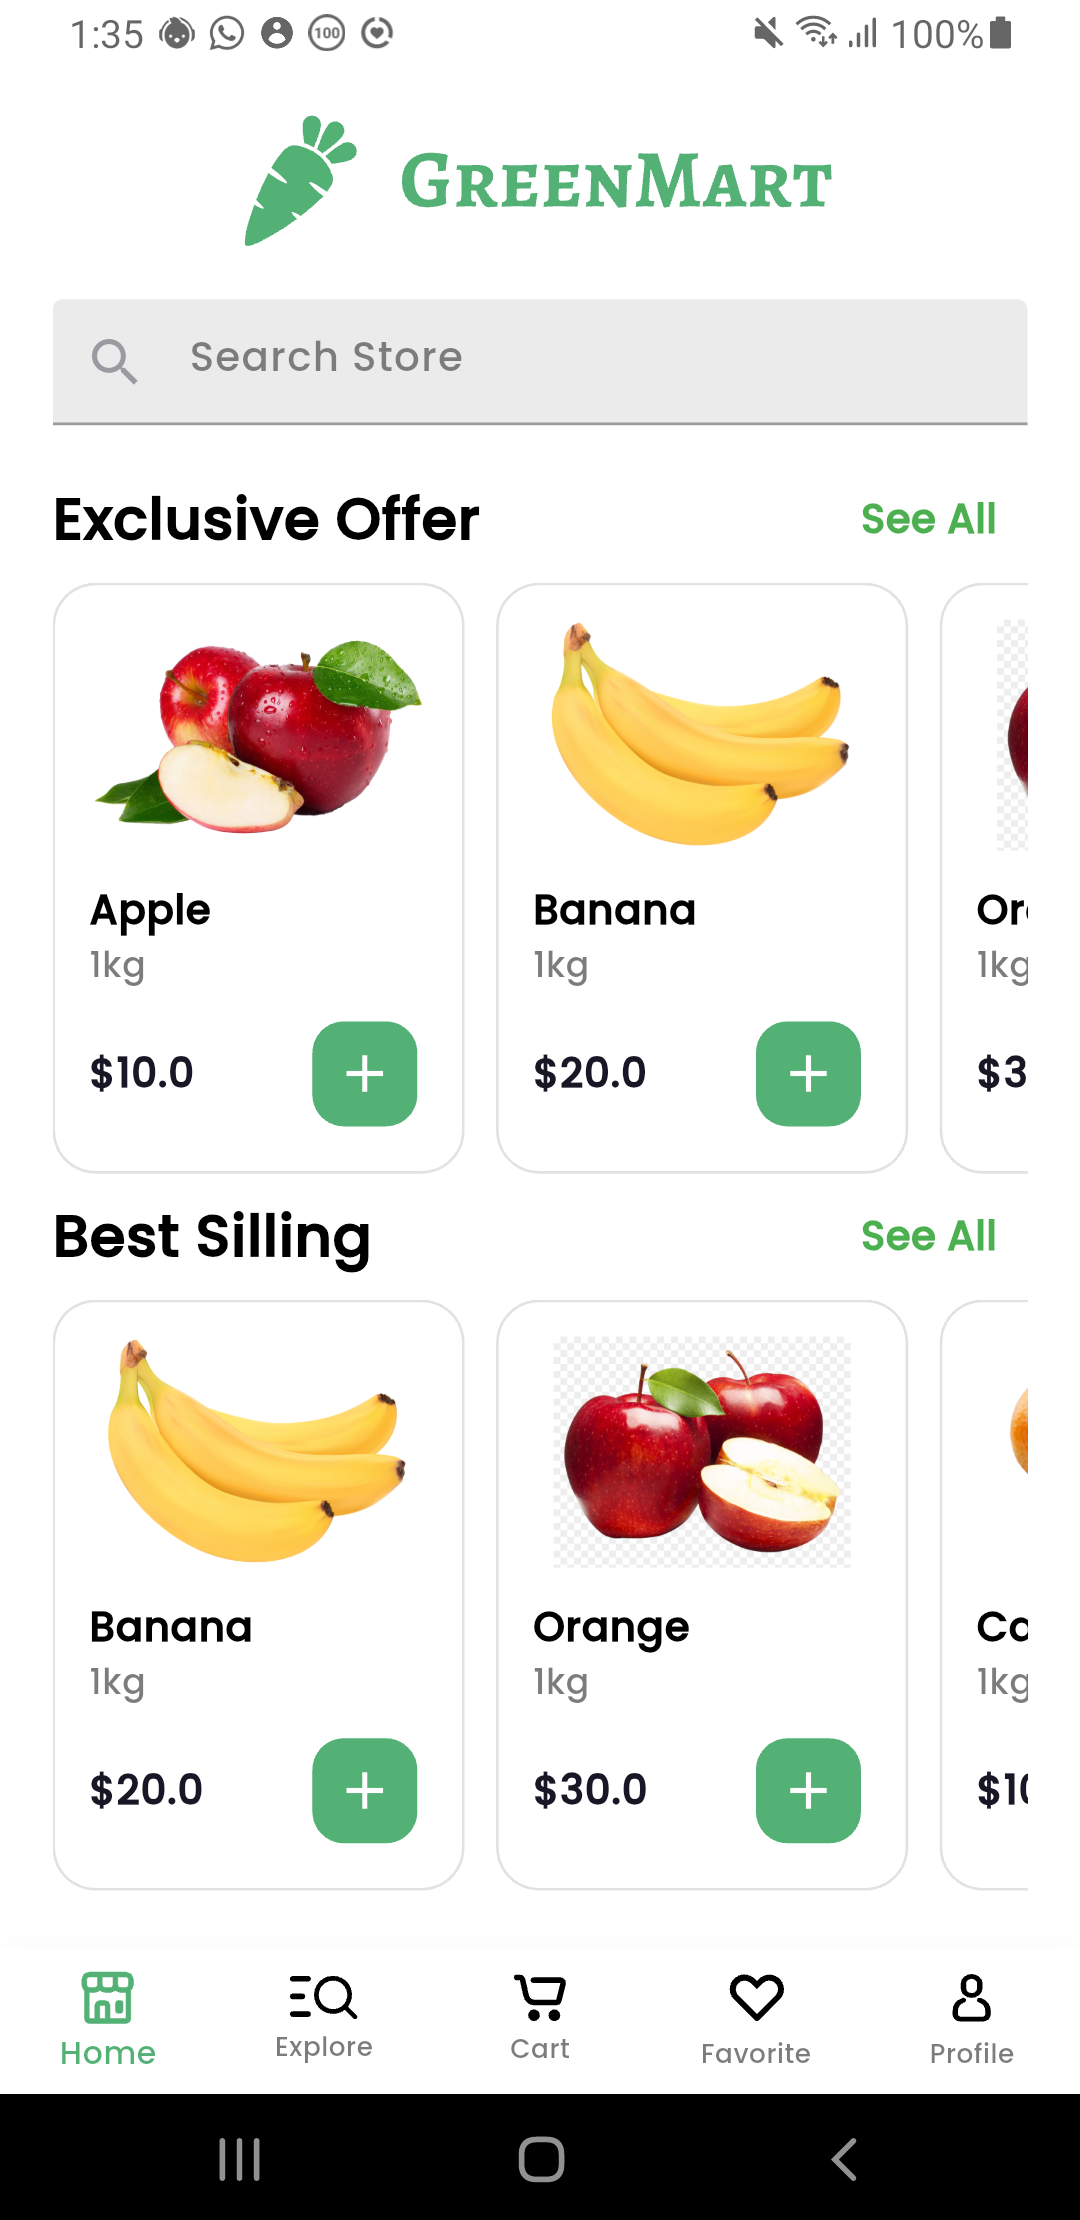
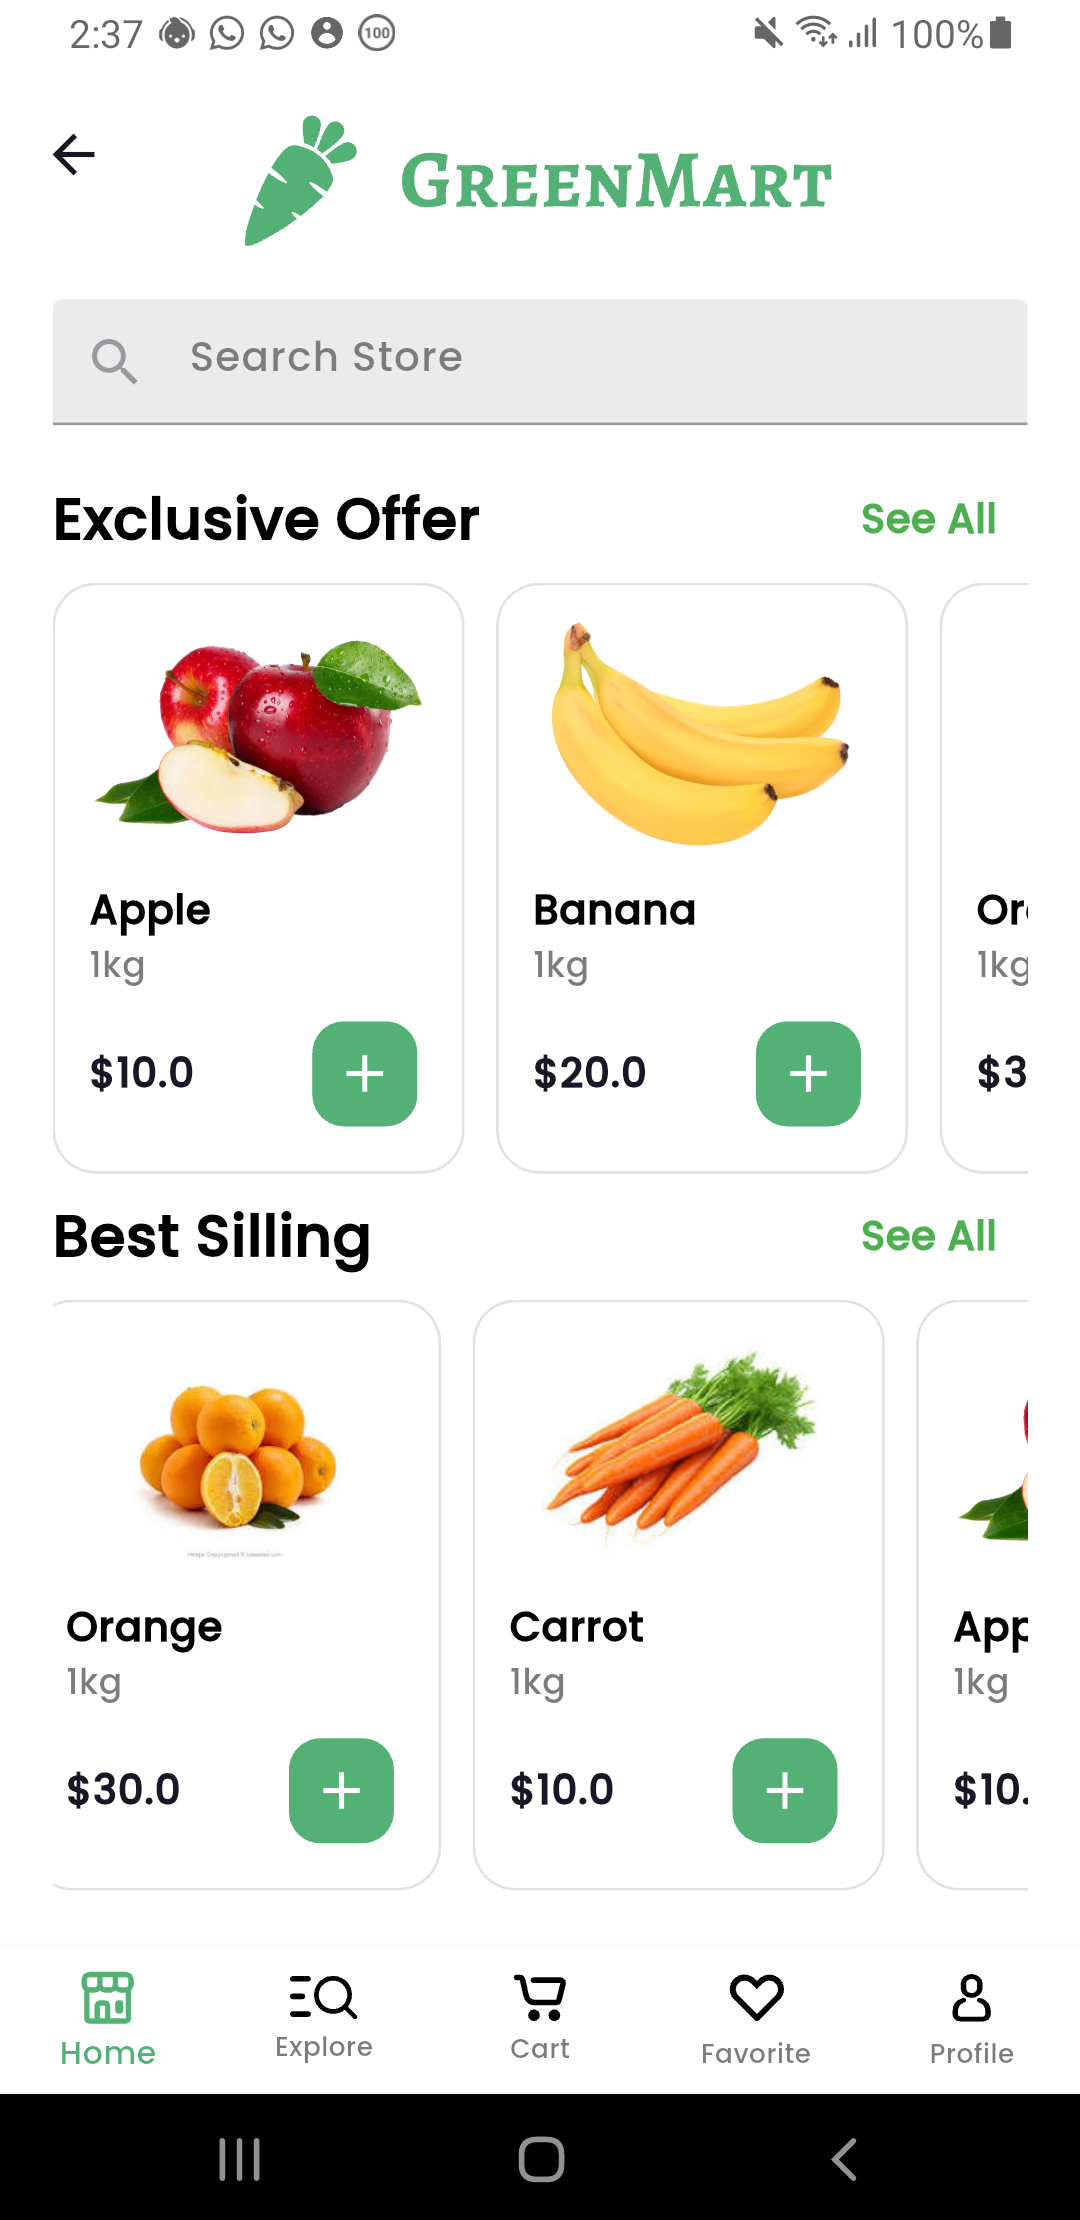
Finish SearchScreen

diff --git a/lib/Features/Home/data/ProductData.dart b/lib/Features/Home/data/ProductData.dart
@@ -40,7 +40,7 @@ List<ProductModel> offers = [
     id: '3',
     categoryId: '1',
     image:
-        'https://www.vhv.rs/dpng/d/425-4254380_apples-png-image-apple-fruit-transparent-png.png',
+        'https://encrypted-tbn0.gstatic.com/images?q=tbn:ANd9GcRZxklmFM0eWmZjHuYCRUWugdY_lmfaHrOrL2hNLIV1oQ&s',
     name: 'Orange',
     price: 30.0,
     quantityForPrice: "1kg",
@@ -49,7 +49,7 @@ List<ProductModel> offers = [
   ProductModel(
     id: '4',
     categoryId: '1',
-    image: 'https://pngimg.com/d/orange_PNG777.png',
+    image: 'https://encrypted-tbn0.gstatic.com/images?q=tbn:ANd9GcSwd9pFOnEDBORnRFCt4ZIxN87q6YddK9MSyiCXIPpddwHrq3RDcaZqMFU&s',
     name: 'Carrot',
     price: 10.0,
     quantityForPrice: "1kg",
@@ -71,7 +71,7 @@ List<ProductModel> bestSelling = [
     id: '3',
     categoryId: '1',
     image:
-        'https://www.vhv.rs/dpng/d/425-4254380_apples-png-image-apple-fruit-transparent-png.png',
+        'https://encrypted-tbn0.gstatic.com/images?q=tbn:ANd9GcRZxklmFM0eWmZjHuYCRUWugdY_lmfaHrOrL2hNLIV1oQ&s',
     name: 'Orange',
     price: 30.0,
     quantityForPrice: "1kg",
@@ -80,7 +80,7 @@ List<ProductModel> bestSelling = [
   ProductModel(
     id: '4',
     categoryId: '1',
-    image: 'https://pngimg.com/d/orange_PNG777.png',
+        image: 'https://encrypted-tbn0.gstatic.com/images?q=tbn:ANd9GcSwd9pFOnEDBORnRFCt4ZIxN87q6YddK9MSyiCXIPpddwHrq3RDcaZqMFU&s',
     name: 'Carrot',
     price: 10.0,
     quantityForPrice: "1kg",
@@ -89,7 +89,7 @@ List<ProductModel> bestSelling = [
     id: '1',
     categoryId: '1',
     image:
-        'https://www.vhv.rs/dpng/d/425-4254380_apples-png-image-apple-fruit-transparent-png.png',
+        'https://www.pngall.com/wp-content/uploads/2016/04/Apple-Fruit-PNG.png',
     name: 'Apple',
     price: 10.0,
     quantityForPrice: "1kg",
@@ -101,7 +101,7 @@ List<ProductModel> allProducts = [
     id: '3',
     categoryId: '1',
     image:
-        'https://www.vhv.rs/dpng/d/425-4254380_apples-png-image-apple-fruit-transparent-png.png',
+        'https://encrypted-tbn0.gstatic.com/images?q=tbn:ANd9GcRZxklmFM0eWmZjHuYCRUWugdY_lmfaHrOrL2hNLIV1oQ&s',
     name: 'Orange',
     price: 30.0,
     quantityForPrice: "1kg",
@@ -120,7 +120,7 @@ List<ProductModel> allProducts = [
     id: '1',
     categoryId: '1',
     image:
[1 lines of base64/hex data omitted]
+        'https://www.pngall.com/wp-content/uploads/2016/04/Apple-Fruit-PNG.png',
     name: 'Apple',
     price: 10.0,
     quantityForPrice: "1kg",
@@ -129,8 +129,8 @@ List<ProductModel> allProducts = [
     id: '1',
     categoryId: '1',
     image:
-        'https://www.vhv.rs/dpng/d/425-4254380_apples-png-image-apple-fruit-transparent-png.png',
-    name: 'Apple',
+        'https://encrypted-tbn0.gstatic.com/images?q=tbn:ANd9GcRZxklmFM0eWmZjHuYCRUWugdY_lmfaHrOrL2hNLIV1oQ&s',
+    name: 'Orange',
     price: 10.0,
     quantityForPrice: "1kg",
   ),
@@ -138,7 +138,7 @@ List<ProductModel> allProducts = [
     id: '1',
     categoryId: '1',
     image:
-        'https://www.vhv.rs/dpng/d/425-4254380_apples-png-image-apple-fruit-transparent-png.png',
+        'https://www.pngall.com/wp-content/uploads/2016/04/Apple-Fruit-PNG.png',
     name: 'Apple',
     price: 10.0,
     quantityForPrice: "1kg",
@@ -147,7 +147,7 @@ List<ProductModel> allProducts = [
   ProductModel(
     id: '4',
     categoryId: '2',
-    image: 'https://pngimg.com/d/orange_PNG777.png',
+    image: 'https://encrypted-tbn0.gstatic.com/images?q=tbn:ANd9GcSwd9pFOnEDBORnRFCt4ZIxN87q6YddK9MSyiCXIPpddwHrq3RDcaZqMFU&s',
     name: 'Carrot',
     price: 10.0,
     quantityForPrice: "1kg",

diff --git a/lib/Features/Search/Pages/search_screen.dart b/lib/Features/Search/Pages/search_screen.dart
@@ -1,0 +1,51 @@
+import 'package:flutter/material.dart';
+import 'package:green_mart/Core/CommonWidgets/custom_text_form_field.dart';
+import 'package:green_mart/Core/Styles/textstyle.dart';
+import 'package:green_mart/Features/Home/data/ProductData.dart';
+import 'package:green_mart/Features/Search/Widgets/filtered_products_builders.dart';
+
+class SearchScreen extends StatefulWidget {
+  const SearchScreen({super.key});
+
+  @override
+  State<SearchScreen> createState() => _SearchScreenState();
+}
+
+class _SearchScreenState extends State<SearchScreen> {
+ String searchKey = '';
+  @override
+  Widget build(BuildContext context) {
+    return Scaffold(
+      appBar: AppBar(
+        centerTitle: true,
+        titleSpacing: 0.0,
+        toolbarHeight: 80,
+        title: Padding(
+          padding: const EdgeInsets.only(top: 8.0),
+          child: Hero(
+            tag: 'search',
+            child: Material(
+              color: Colors.transparent,
+              child: CustomTextFormField(
+                prefixIcon: Icon(Icons.search),
+                hintText: 'Search Store',
+                onChanged: (value) {
+                  setState(() {
+                    searchKey = value;
+                  });
+                },
+                // هنا المفروض تفتح صفحة البحث
+              ),
+            ),
+          ),
+        ),
+        actions: [SizedBox(width: 20)],
+      ),
+
+      body: Padding(
+        padding: const EdgeInsets.all(15.0),
+        child: FilteredProductsBuilders(allProducts: getProductsByName(searchKey)),
+      ),
+    );
+  }
+}

diff --git a/lib/Features/Home/Page/home_screen.dart b/lib/Features/Home/Page/home_screen.dart
@@ -7,7 +7,7 @@ import 'package:green_mart/Core/CommonWidgets/custom_text_form_field.dart';
 import 'package:green_mart/Core/Constants/app_image.dart';
 import 'package:green_mart/Features/Home/Widget/item_card.dart';
 import 'package:green_mart/Features/Home/Widget/offer_builder.dart';
-import 'package:green_mart/Features/Search/search_screen.dart';
+import 'package:green_mart/Features/Search/Pages/search_screen.dart';
 
 class HomeScreen extends StatelessWidget {
   const HomeScreen({super.key});
@@ -41,11 +41,16 @@ class HomeScreen extends StatelessWidget {
                   onTap: () {
                     Pushto(context, SearchScreen());
                   },  
-                  child: CustomTextFormField(
-                    prefixIcon: Icon(Icons.search),
-                    hintText: 'Search Store',
-                    enabled: false, // عشان لما تضغط عليها متفتحش الكيبورد
-                      // هنا المفروض تفتح صفحة البحث
+                  child: Hero(
+                    tag: 'search',
+                    child: Material(
+                      child: CustomTextFormField(
+                        prefixIcon: Icon(Icons.search),
+                        hintText: 'Search Store',
+                        enabled: false, // عشان لما تضغط عليها متفتحش الكيبورد
+                          // هنا المفروض تفتح صفحة البحث
+                      ),
+                    ),
                   ),
                 ),
                 SizedBox(height: 12),

diff --git a/lib/Features/Search/Widgets/filtered_products_builders.dart b/lib/Features/Search/Widgets/filtered_products_builders.dart
@@ -1,0 +1,25 @@
+import 'package:flutter/material.dart';
+import 'package:green_mart/Features/Home/data/ProductData.dart';
+import 'package:green_mart/Features/Home/Widget/item_card.dart';
+
+class FilteredProductsBuilders extends StatelessWidget {
+  const FilteredProductsBuilders({super.key , required this.allProducts});
+
+  final List<ProductModel> allProducts;
+  @override
+  Widget build(BuildContext context) {
+    return GridView.builder(
+      gridDelegate: SliverGridDelegateWithFixedCrossAxisCount(
+        crossAxisCount: 2, // كل صف فيه 2 كارد
+        crossAxisSpacing: 10, // العرض
+        mainAxisSpacing: 10,
+        // mainAxisExtent: 250, // الارتفاع
+        childAspectRatio:
+            0.7,      ),
+      itemCount: allProducts.length,
+      itemBuilder: (context, index) {
+        return ItemCard(product: allProducts[index]);
+      },
+    );
+  }
+}

diff --git a/lib/Core/CommonWidgets/custom_text_form_field.dart b/lib/Core/CommonWidgets/custom_text_form_field.dart
@@ -9,6 +9,7 @@ class CustomTextFormField extends StatefulWidget {
     this.keyboardType,
     this.validator,
     this.enabled = true,
+    this.onChanged,
   });
   final String? hintText;
   final Widget? prefixIcon;
@@ -16,6 +17,7 @@ class CustomTextFormField extends StatefulWidget {
   final TextInputType? keyboardType;
   final String? Function(String?)? validator;
   final bool enabled;
+  final Function(String)? onChanged;
 
   @override
   State<CustomTextFormField> createState() => _CustomTextFormFieldState();
@@ -33,6 +35,7 @@ class _CustomTextFormFieldState extends State<CustomTextFormField> {
       ),
       validator: widget.validator,
       enabled: widget.enabled,
+      onChanged: widget.onChanged,
       // validator: (value) {
       //   if (value?.isEmpty == true) {
       //     return 'Please enter Your Email';

diff --git a/lib/Core/HelperMethods/navigations.dart b/lib/Core/HelperMethods/navigations.dart
@@ -2,7 +2,7 @@ import 'package:flutter/material.dart';
 
 // عنواني في شجرة Flutter
 Pushto(BuildContext context , Widget newpage){
-  Navigator.pushReplacement(
+  Navigator.push(
         context,
         MaterialPageRoute(builder: (context) => newpage),
       );
